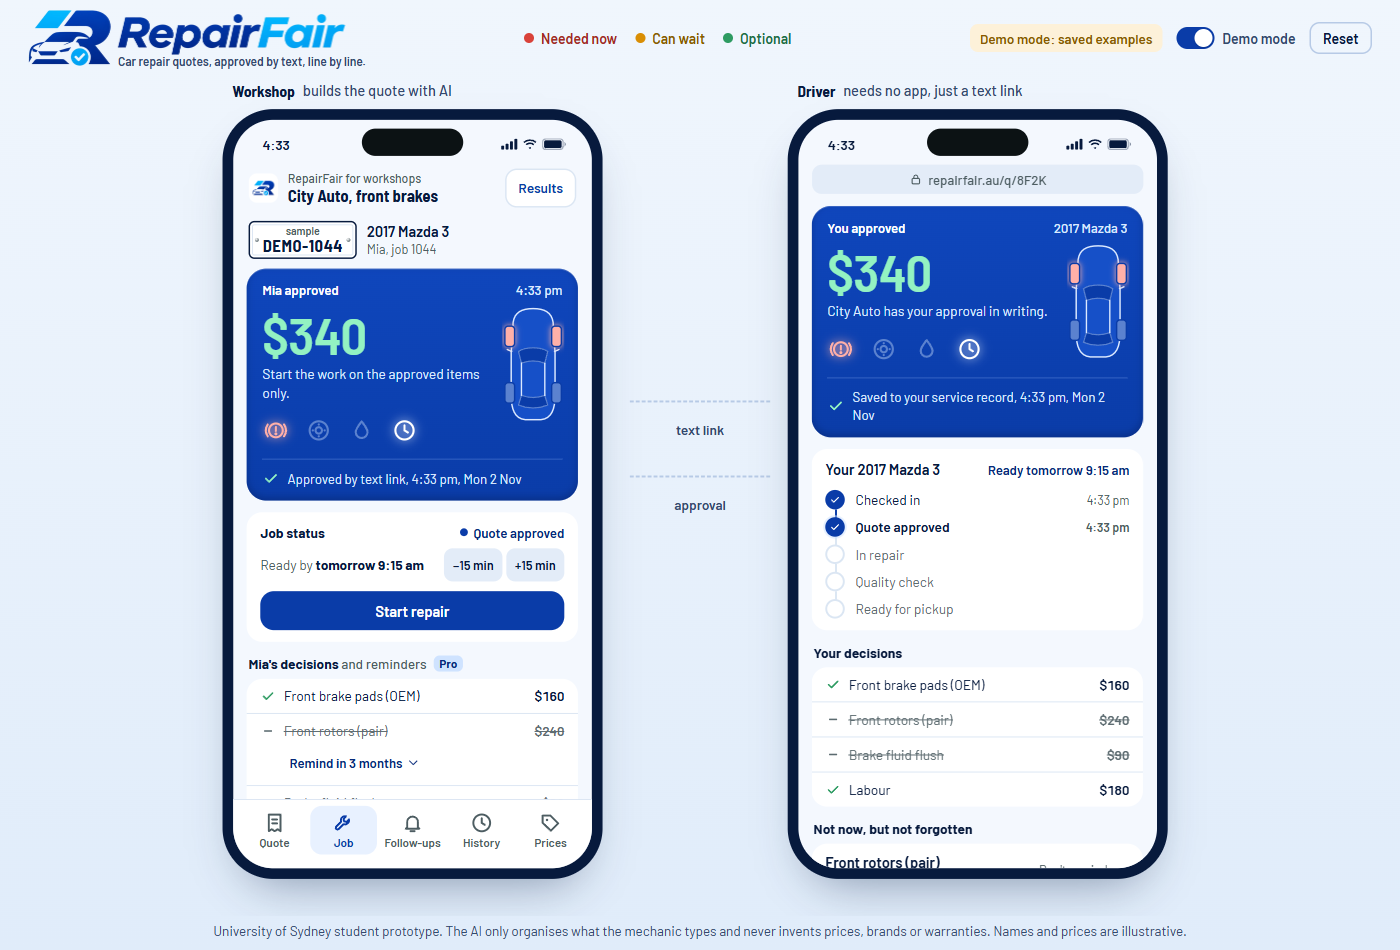
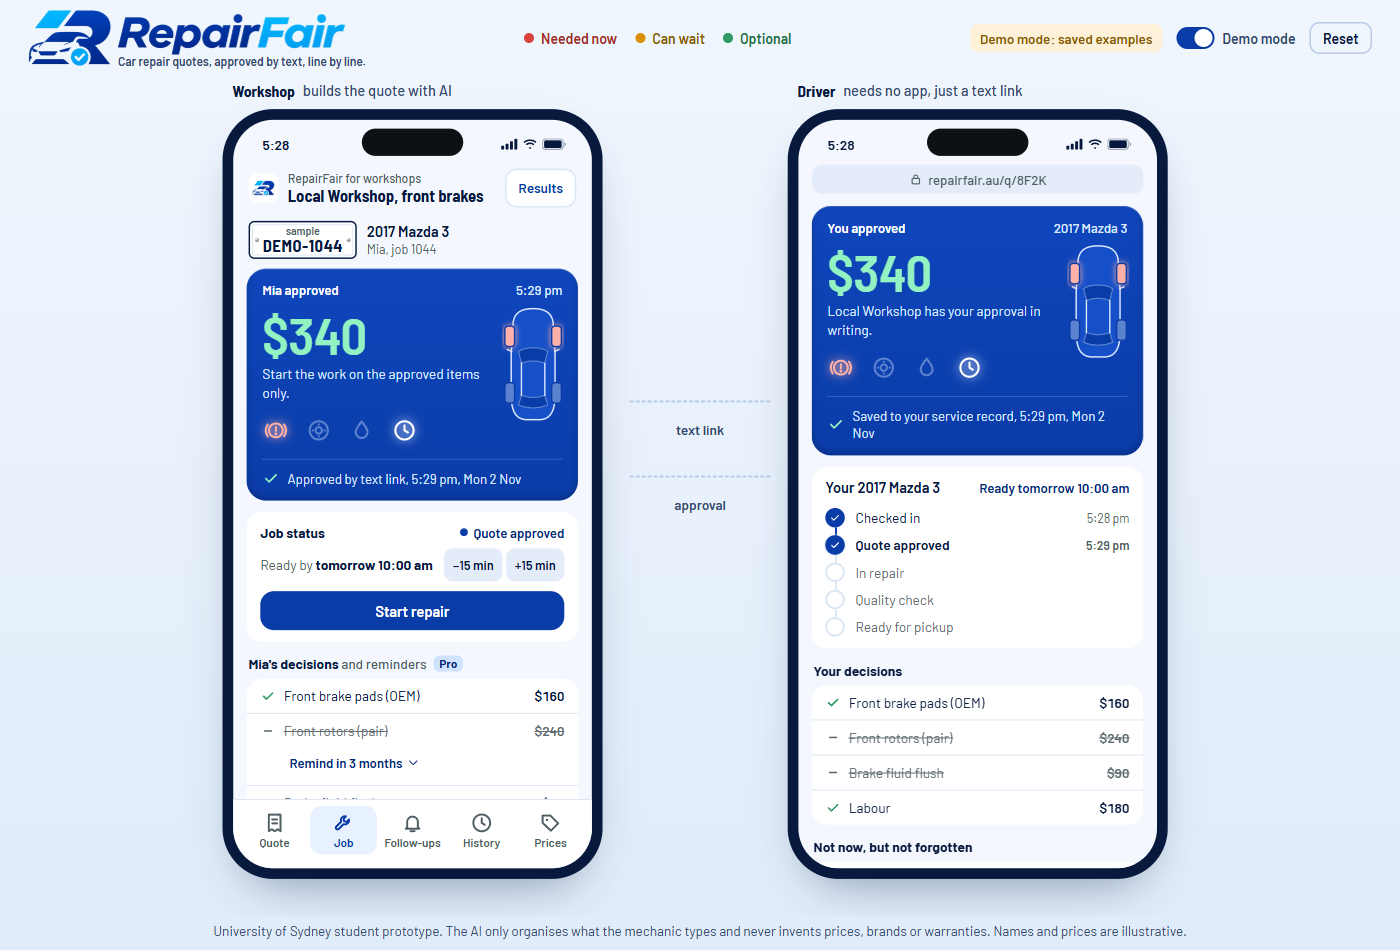
Rename the demo workshop to Local Workshop

diff --git a/static/app.js b/static/app.js
@@ -14,11 +14,11 @@ Hose options: economy $45 12 months, OEM $70 12 months.
 Labour 0.5 hr at $120/hr.`;
 
 const LANGS = [["en", "English"], ["zh-Hans", "中文"], ["vi", "Tiếng Việt"]];
-const ADDON_NOTE = "City Auto recommends these, but your car doesn't need them today. They stay off unless you add them.";
+const ADDON_NOTE = "Local Workshop recommends these, but your car doesn't need them today. They stay off unless you add them.";
 const STATUS = { needed_now: "Needed now", can_wait: "Can wait", optional: "Optional", to_confirm: "To confirm" };
 const AI_TIMEOUT_MS = 15000;
 const VOICE_MAX_SECONDS = 60;
-const WORKSHOP = "City Auto";
+const WORKSHOP = "Local Workshop";
 const SAMPLE_ABN = "00 000 000 000";
 const SAMPLE_PLATE = "DEMO-1044";  // too long to be a real plate, and always shown with "sample"
 const URGENCY = ["needed_now", "to_confirm", "can_wait", "optional"];
@@ -865,12 +865,12 @@ function keyOn() {
 }
 function drQuotePanel(q) {
   const car = carDiagram(q.items, "quote");
-  return `<div class="cluster ${car ? "with-car" : ""}"><div class="cl-top"><b>City Auto</b><span>${esc(q.job_title)}</span></div>${car}
+  return `<div class="cluster ${car ? "with-car" : ""}"><div class="cl-top"><b>Local Workshop</b><span>${esc(q.job_title)}</span></div>${car}
     <div class="readout odo" id="drRead" role="img" aria-label="${money(sumApproved(q.items))}">${odoHTML(sumApproved(q.items))}</div>
     <div class="cl-sub" id="drSub">to approve today, out of ${money(sumAll(q.items))} quoted</div>
     ${tach(q)}
     ${lamps(q.items, "quote")}
-    <div class="cl-foot">${ic("check", 18)}Checked by a City Auto mechanic before it was sent</div>
+    <div class="cl-foot">${ic("check", 18)}Checked by a Local Workshop mechanic before it was sent</div>
     ${fairSummary(q.items) ? `<div class="cl-foot">${ic("check", 18)}${fairSummary(q.items)}</div>` : ""}</div>`;
 }
 // Flip an item without re-rendering, so the switch slides and its light fades rather than snapping
@@ -895,18 +895,18 @@ function drFollowups() {
   return `<div class="lbl">Not now, but not forgotten</div><div class="sheet fu">${fs.map((f) => `<div class="fu-row ${f.status}">
       <div class="fu-t"><b>${esc(f.item)}</b><span>${f.status === "booked" ? `Booked ${esc(slotText(f.bookedAt))}` : f.status === "sent" ? "Reminder sent" : f.status === "off" ? "No reminder" : `We'll text you around ${esc(whenOf(f.due))}`}</span></div>
       ${f.status === "booked" || f.status === "sent" ? "" : `<button class="ck-link" data-act="fu-toggle" data-id="${f.id}">${f.status === "off" ? "Remind me" : "Don't remind me"}</button>`}</div>`).join("")}
-    <div class="small" style="text-align:left">Nothing is booked. City Auto just checks in when it's due.</div></div>`;
+    <div class="small" style="text-align:left">Nothing is booked. Local Workshop just checks in when it's due.</div></div>`;
 }
 
 function tbcBox(q) {
   const list = tbcList(q);
-  return list.length ? `<div class="missing"><b>City Auto will confirm before starting</b>${list.map(esc).join("<br>")}</div>` : "";
+  return list.length ? `<div class="missing"><b>Local Workshop will confirm before starting</b>${list.map(esc).join("<br>")}</div>` : "";
 }
 
 function lockScreen(withNotif) {
   const now = new Date();
   const notif = withNotif ? `<div class="notif" data-act="open-thread"><div class="app">${ic("msg", 22)}</div><div style="flex:1">
-      <div class="top"><span>Messages</span><span>now</span></div><div class="ti">City Auto</div>
+      <div class="top"><span>Messages</span><span>now</span></div><div class="ti">Local Workshop</div>
       <div class="tx">Hi ${esc(customer())}, your quote for the ${esc(carName())} is ready. Please review and approve…</div></div></div>
       <div class="tapme">Tap to open</div>` : "";
   return `<div class="lockscreen"><div class="d">${now.toLocaleDateString("en-AU", { weekday: "long", day: "numeric", month: "long" }).replace(",", "")}</div>
@@ -918,7 +918,7 @@ function thread() {
   const need = q.items.filter((i) => i.status === "needed_now").length;
   const wait = q.items.length - need;
   return `<div class="thread"><div class="tstamp">Today ${timeOf(state.sentAt)}</div>
-    <div class="bubble">Hi ${esc(customer())}, it's City Auto. Your quote for the ${esc(carName())} is ready. Please review and approve below.</div>
+    <div class="bubble">Hi ${esc(customer())}, it's Local Workshop. Your quote for the ${esc(carName())} is ready. Please review and approve below.</div>
     <div class="linkcard" data-act="open-quote"><div class="lc-top"><img src="/static/logo-mark.png" alt=""><div><div class="lc-k">RepairFair quote</div><div class="lc-t">${esc(q.job_title)}</div></div></div>
       <div class="lc-b"><div class="row2">${need ? `<span class="key needed_now"><i></i>${need} needed now</span>` : ""}${wait ? `<span class="key can_wait"><i></i>${wait} other item${wait > 1 ? "s" : ""}</span>` : ""}</div>
       <span class="cta">View and approve</span><div class="dom">repairfair.au</div></div></div>
@@ -949,7 +949,7 @@ function renderDriver() {
     case "approved":
       return `<div class="cluster with-car"><div class="cl-top"><b>You approved</b><span>${esc(carName())}</span></div>${carDiagram(q.items, "done")}
           <div class="readout green">${money(sumApproved(q.items))}</div>
-          <div class="cl-sub">City Auto has your approval in writing.</div>
+          <div class="cl-sub">Local Workshop has your approval in writing.</div>
           ${lamps(q.items, "done")}
           <div class="cl-foot">${ic("check", 18)}Saved to your service record, ${esc(stampOf(state.approvedAt))}</div></div>
         ${drStatus()}
@@ -958,15 +958,15 @@ function renderDriver() {
     case "extra":
       return `<div class="cluster with-car"><div class="cl-top"><b>Found mid-job</b><span>${esc(q.job_title)}</span></div>${carDiagram(x.items.map((it) => ({ ...it, approved: true })), "extra")}
           <div class="readout">${money(sumAll(x.items))}</div>
-          <div class="cl-sub"><b>${esc(x.items[0].name)}</b> needs your OK before City Auto continues.</div>
+          <div class="cl-sub"><b>${esc(x.items[0].name)}</b> needs your OK before Local Workshop continues.</div>
           ${lamps(x.items.map((it) => ({ ...it, approved: true })), "extra")}</div>
-        ${langBar()}<div class="bigphoto"><span>${ic("camera", 18)}Photo from City Auto</span><span>tap to enlarge</span></div>
+        ${langBar()}<div class="bigphoto"><span>${ic("camera", 18)}Photo from Local Workshop</span><span>tap to enlarge</span></div>
         ${tbcBox(x)}<div class="sheet" lang="${state.lang}">${x.items.map((it, i) => drRow(it, i, "extra", false)).join("")}</div>
         <div class="small">The workshop won't start this until you decide.</div>`;
     case "extra_done": {
       const r = state.extraResult;
-      const m = r === "approved" ? "Extra work approved" : r === "call" ? "City Auto will call you" : "Extra work declined";
-      const s = r === "approved" ? "Saved with your quote." : r === "call" ? "Nothing extra starts until you agree." : "City Auto won't do it.";
+      const m = r === "approved" ? "Extra work approved" : r === "call" ? "Local Workshop will call you" : "Extra work declined";
+      const s = r === "approved" ? "Saved with your quote." : r === "call" ? "Nothing extra starts until you agree." : "Local Workshop won't do it.";
       return `<div class="cluster"><div class="cl-top"><b>${m}</b>${r === "call" ? ic("phone", 18) : ""}</div>
           <div class="readout ${r === "approved" ? "green" : ""}">${money(sumApproved(q.items) + (r === "approved" ? sumApproved(x.items) : 0))}</div>
           <div class="cl-sub">Your final bill. ${s}</div>
@@ -976,7 +976,7 @@ function renderDriver() {
     }
     case "book": {
       const f = activeFu();
-      return `<div class="cluster"><div class="cl-top"><b>City Auto</b><span>${esc(f.car)}</span></div>
+      return `<div class="cluster"><div class="cl-top"><b>Local Workshop</b><span>${esc(f.car)}</span></div>
           <div class="readout md">${money(f.price)}</div>
           <div class="cl-sub"><b>${esc(f.item)}</b>, advised on your ${esc(f.advised.split(" · ")[0])} job.</div></div>
         <div class="lead">Pick a time that suits you</div>
@@ -988,7 +988,7 @@ function renderDriver() {
       const f = activeFu();
       return `<div class="cluster"><div class="cl-top"><b>You're booked in</b><span>${esc(f.car)}</span></div>
           <div class="readout md green">${esc(dayOf(f.bookedAt))}</div>
-          <div class="cl-sub">${esc(timeOf(f.bookedAt))} at City Auto for ${esc(f.item)}.</div></div>
+          <div class="cl-sub">${esc(timeOf(f.bookedAt))} at Local Workshop for ${esc(f.item)}.</div></div>
         <button class="btn soft" data-act="book-done">Done</button>`;
     }
     case "ready": {
@@ -1015,19 +1015,19 @@ function renderDriverChrome() {
   const lock = state.dr === "home" || state.dr === "notified";
   document.querySelector(".dr-phone").classList.toggle("lock", lock);
   $("drTop").innerHTML = lock ? "" : state.dr === "thread"
-    ? `<div class="thread-head"><span class="back">‹</span><div class="av">CA</div><div class="nm">City Auto ›</div></div>`
+    ? `<div class="thread-head"><span class="back">‹</span><div class="av">LW</div><div class="nm">Local Workshop ›</div></div>`
     : `<div class="urlbar">${ic("lock", 14)}repairfair.au/${state.dr === "invoice" ? "i" : "q"}/8F2K</div>`;
   $("drBanner").innerHTML = state.drBanner === "ready" ? `<div class="notif" data-act="open-ready"><div class="app">${ic("msg", 22)}</div><div style="flex:1">
-      <div class="top"><span>Messages, City Auto</span><span>now</span></div><div class="ti">Your car is ready</div>
+      <div class="top"><span>Messages, Local Workshop</span><span>now</span></div><div class="ti">Your car is ready</div>
       <div class="tx">Your ${esc(carName())} is ready to collect. Tap to view your final bill.</div></div></div>`
     : state.drBanner === "invoice" ? `<div class="notif" data-act="open-invoice"><div class="app">${ic("msg", 22)}</div><div style="flex:1">
-      <div class="top"><span>Messages, City Auto</span><span>now</span></div><div class="ti">Your invoice</div>
+      <div class="top"><span>Messages, Local Workshop</span><span>now</span></div><div class="ti">Your invoice</div>
       <div class="tx">${esc(state.inv.number)} for ${esc(cents(state.inv.total))}. Tap to view.</div></div></div>`
     : state.drBanner === "reminder" ? `<div class="notif" data-act="open-book"><div class="app">${ic("msg", 22)}</div><div style="flex:1">
-      <div class="top"><span>Messages, City Auto</span><span>now</span></div><div class="ti">Time for your ${esc(activeFu().item)}</div>
+      <div class="top"><span>Messages, Local Workshop</span><span>now</span></div><div class="ti">Time for your ${esc(activeFu().item)}</div>
       <div class="tx">Hi ${esc(activeFu().customer)}, want to book it in? Tap to pick a time.</div></div></div>`
     : state.drBanner === "extra" ? `<div class="notif" data-act="open-extra"><div class="app">${ic("msg", 22)}</div><div style="flex:1">
-      <div class="top"><span>Messages, City Auto</span><span>now</span></div><div class="ti">We found something</div>
+      <div class="top"><span>Messages, Local Workshop</span><span>now</span></div><div class="ti">We found something</div>
       <div class="tx">${esc(state.extra.items[0].name)}: needs your OK before we continue. Tap to view.</div></div></div>` : "";
   const d = $("drDock");
   if (state.dr === "quote") {
@@ -1058,7 +1058,7 @@ function render() {
   lastDr = state.dr;
   renderDriverChrome();
   renderWsDock();
-  $("wsTitle").textContent = state.quote ? `City Auto, ${state.quote.job_title.toLowerCase()}` : "City Auto";
+  $("wsTitle").textContent = state.quote ? `Local Workshop, ${state.quote.job_title.toLowerCase()}` : "Local Workshop";
 }
 
 function fly(id) { const el = $(id); el.classList.remove("go"); void el.offsetWidth; el.classList.add("go"); }
@@ -1089,7 +1089,7 @@ function bookFollowups() {
   });
 }
 const ourFollowups = () => state.followups.filter((f) => f.ours);
-const reminderText = (f) => `Hi ${f.customer}, it's City Auto. When we did your ${f.advised.split(" · ")[0]} we advised: ${f.item}${f.price != null ? ` (${money(f.price)})` : ""}. Want to book it in? Pick a time: repairfair.au/b/7K3D. Reply STOP to opt out.`;
+const reminderText = (f) => `Hi ${f.customer}, it's Local Workshop. When we did your ${f.advised.split(" · ")[0]} we advised: ${f.item}${f.price != null ? ` (${money(f.price)})` : ""}. Want to book it in? Pick a time: repairfair.au/b/7K3D. Reply STOP to opt out.`;
 const activeFu = () => state.followups.find((f) => f.id === state.fuActive);
 const slotText = (t) => `${dayOf(t)}, ${timeOf(t)}`;
 // Three times to offer from a reminder link, on the next open days. This isn't a calendar: the workshop just sees what was picked.

diff --git a/static/index.html b/static/index.html
@@ -63,7 +63,7 @@
           <div class="status"><span class="clock">9:41</span><span class="sig"><svg width="17" height="11" viewBox="0 0 17 11" aria-hidden="true"><rect x="0" y="7" width="3" height="4" rx="1"/><rect x="4.5" y="5" width="3" height="6" rx="1"/><rect x="9" y="2.5" width="3" height="8.5" rx="1"/><rect x="13.5" y="0" width="3" height="11" rx="1"/></svg><svg width="15" height="11" viewBox="0 0 15 11" aria-hidden="true"><path d="M7.5 2.1c2.2 0 4.2.8 5.7 2.2l1.1-1.2A9.9 9.9 0 0 0 7.5.5 9.9 9.9 0 0 0 .7 3.1l1.1 1.2a8.3 8.3 0 0 1 5.7-2.2zm0 3.2c1.3 0 2.5.5 3.4 1.3l1.1-1.2a6.6 6.6 0 0 0-9 0l1.1 1.2c.9-.8 2.1-1.3 3.4-1.3zm0 3.2c.5 0 1 .2 1.3.5L7.5 10.8 6.2 9c.3-.3.8-.5 1.3-.5z"/></svg><svg width="25" height="12" viewBox="0 0 25 12" aria-hidden="true"><rect x="0.5" y="0.5" width="21" height="11" rx="3.2" fill="none" stroke="currentColor" opacity=".4"/><rect x="2" y="2" width="18" height="8" rx="1.8"/><path d="M23 4v4c.8-.3 1.4-1.1 1.4-2S23.8 4.3 23 4z" opacity=".45"/></svg></span></div>
           <div class="app-head">
             <img src="/static/logo-mark.png" alt="" class="mini-logo">
-            <div><div class="ah1">RepairFair for workshops</div><div class="ah2" id="wsTitle">City Auto</div></div>
+            <div><div class="ah1">RepairFair for workshops</div><div class="ah2" id="wsTitle">Local Workshop</div></div>
             <button class="head-btn" id="resultsBtn" data-tab="results">Results</button>
           </div>
           <div class="screen" id="ws"></div>

diff --git a/app.py b/app.py
@@ -95,7 +95,7 @@ You get a JSON list of English strings. Return JSON only: {{"translations": ["..
 
 Rules:
 - Use plain words a driver would use. Use the usual local term for each car part.
-- Keep every number and unit exactly as written, and keep brand names and part numbers.
+- Keep every number and unit exactly as written, and keep brand names, part numbers and the workshop name Local Workshop in English.
 - Don't add, remove or explain anything. Don't add advice, prices or warnings."""
 
 
